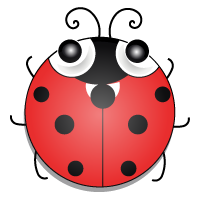
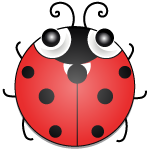
debug ladybug

Changed region(s): [[0.0, 0.0, 0.9867, 1.0], [0.64, 0.56, 0.7733, 0.72], [0.24, 0.56, 0.3733, 0.72]]

diff --git a/js/ladybug.js b/js/ladybug.js
@@ -1,8 +1,12 @@
 window.requestAnimationFrame = window.requestAnimationFrame || window.mozRequestAnimationFrame || window.webkitRequestAnimationFrame || window.msRequestAnimationFrame;
 
 bug = document.getElementById("ladybug");
-bug.style.left = "100px";
-bug.style.top = "100px";
+header = document.getElementById("header");
+test = document.getElementById("test");
+test2 = document.getElementById("test2");
+test3 = document.getElementById("test3");
+bug.style.left = "350px";
+bug.style.top = "10px";
 
 dir_x = 1.0;
 dir_y = 0.0;
@@ -24,6 +28,9 @@ function step(timestamp) {
 
   x = parseFloat(bug.style.left);
   y = parseFloat(bug.style.top);
+  var rect = bug.getBoundingClientRect();
+  w = bug.clientWidth;  // may not work somewhere?
+  h = bug.clientHeight;
 
   if (!stopped) {
     x += dir_x * v * dt;
@@ -35,7 +42,23 @@ function step(timestamp) {
 
   alpha = Math.atan2(dir_y, dir_x);
   // d_alpha = (Math.random() - 0.5) * alpha_v * dt;
-  if (Math.random() < 0.01)
+
+  forvard_r = 150;
+  forv_x = x + w / 2.0 + dir_x * forvard_r;
+  forv_y = y + h / 2.0 + dir_y * forvard_r;
+  to_the_corner = false;
+  if (forv_x < 0 || forv_y < 0 || forv_x > window.innerWidth || forv_y > window.innerHeight) {
+    to_the_corner = true;
+    console.log("to_the_corner");
+  }
+  test.style.left = forv_x + "px";
+  test.style.top = forv_y + "px";
+  test2.style.left = x + w / 2.0 + "px";
+  test2.style.top = y + h / 2.0 + "px";
+  test3.style.left = x + "px";
+  test3.style.top = y + "px";
+
+  if (!to_the_corner && Math.random() < 0.01)
     alpha_dir *= -1;
   d_alpha = alpha_v * dt * alpha_dir;
   if (!stopped)
@@ -64,30 +87,15 @@ document.onmousemove = function(e) {
 
   var rect = bug.getBoundingClientRect();
   x = parseFloat(rect.left) + rect.width / 2.0;
-  y = parseFloat(rect.top) + rect.height / 2.0;
+  y = parseFloat(rect.top) + rect.height / 2.0 + window.scrollY;
 
-  console.log("x: " + x + " " + parseFloat(cursorX));
-  console.log("y: " + y + " " + parseFloat(cursorY));
+  // console.log("x: " + x + " " + parseFloat(cursorX));
+  // console.log("y: " + y + " " + parseFloat(cursorY));
   dx = x - parseFloat(cursorX);
   dy = y - parseFloat(cursorY);
   r = Math.sqrt(dx * dx + dy * dy);
-  console.log("r = " + r);
+  // console.log("r = " + r);
   bug_r = 67;
-  if (r < bug_r) {
-    ladybugOnEnter();
-  }    
-  else {
-    ladybugOnLeave();
-  }
-}
-
-function headerOnMouseMove(e) {
-  // console.log("parseFloat(e.pageX) = " + parseFloat(cursorX));
-  dx = parseFloat(bug.style.left) - parseFloat(cursorX);
-  dy = parseFloat(bug.style.top) - parseFloat(cursorY);
-  r = Math.sqrt(dx * dx + dy * dy);
-  console.log("r = " + r);
-  bug_r = 75;
   if (r < bug_r) {
     ladybugOnEnter();
   }    
@@ -98,9 +106,12 @@ function headerOnMouseMove(e) {
 
 function ladybugOnEnter(obj) {
   stopped = true;
+  console.log("ladybugOnEnter");
+  bug.style.backgroundImage = 'url(img/ladybug_looking.gif)';
 }
 
 function ladybugOnLeave(obj) {
-  stopped = false; 
+  stopped = false;
+  bug.style.backgroundImage = 'url(img/ladybug.gif)';
 }
 

diff --git a/css/ladybug.css b/css/ladybug.css
@@ -1,13 +1,34 @@
 #ladybug {
 	position: absolute;
-	background-image: url("../img/ladybug.png");
+	background-image: url("../img/ladybug.gif");
 	border-style: none;
 	/*background-color: #F00;*/
-	height: 200px;
-	width: 200px;
+	height: 150px;
+	width: 150px;
 	z-index: -1;
 }
 
 #ladybug:hover { 
-	background-image: url("../img/ladybug_looking.png");
+	background-image: url("../img/ladybug_looking.gif");
+}
+
+#test {
+	position: absolute;
+	background-color: #FF0000;
+	width: 10px;
+	height: 10px;
+}
+
+#test2 {
+	position: absolute;
+	background-color: #0000FF;
+	width: 10px;
+	height: 10px;
+}
+
+#test3 {
+	position: absolute;
+	background-color: #00FF00;
+	width: 10px;
+	height: 10px;
 }

diff --git a/index.html b/index.html
@@ -71,7 +71,7 @@
     </nav>
 
     <!-- Header -->
-    <header>
+    <header id="header">
         <div class="container">
             <div class="row">
                 <div class="col-lg-12">
@@ -79,6 +79,9 @@
                         <span class="name">Prokhor Gladkikh</span>
                         <span class="skills">Software Engineer - Mobile Developer - Project Manager</span>
                         <div id="ladybug"></div>
+                        <div id="test"></div>
+                        <div id="test2"></div>
+                        <div id="test3"></div>
                     </div>
                 </div>
             </div>
